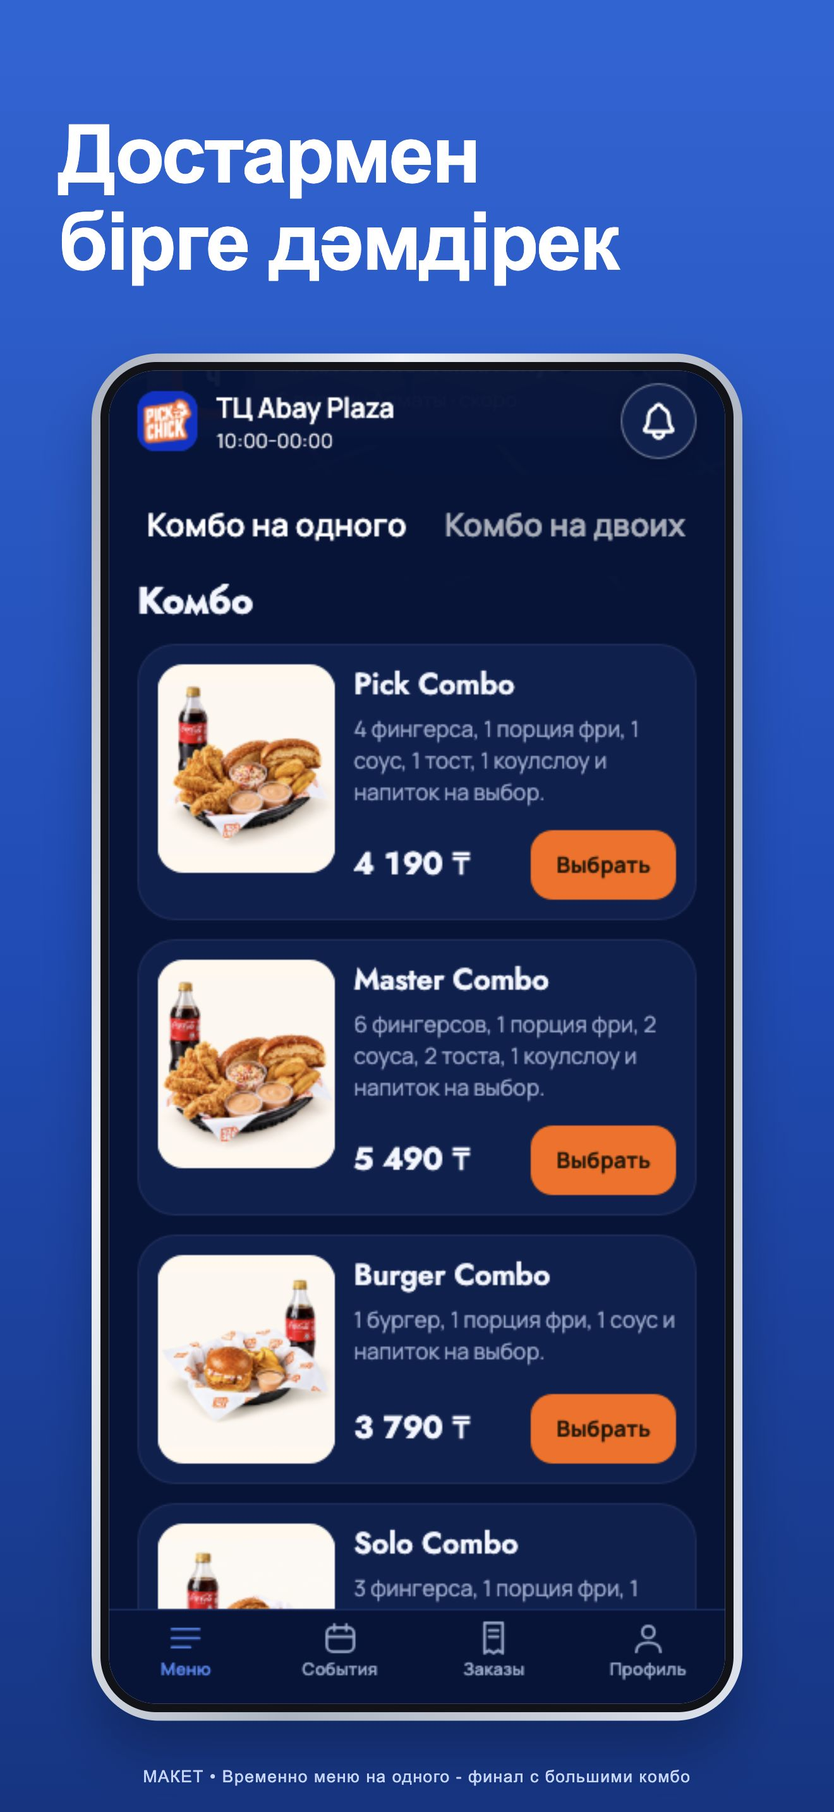
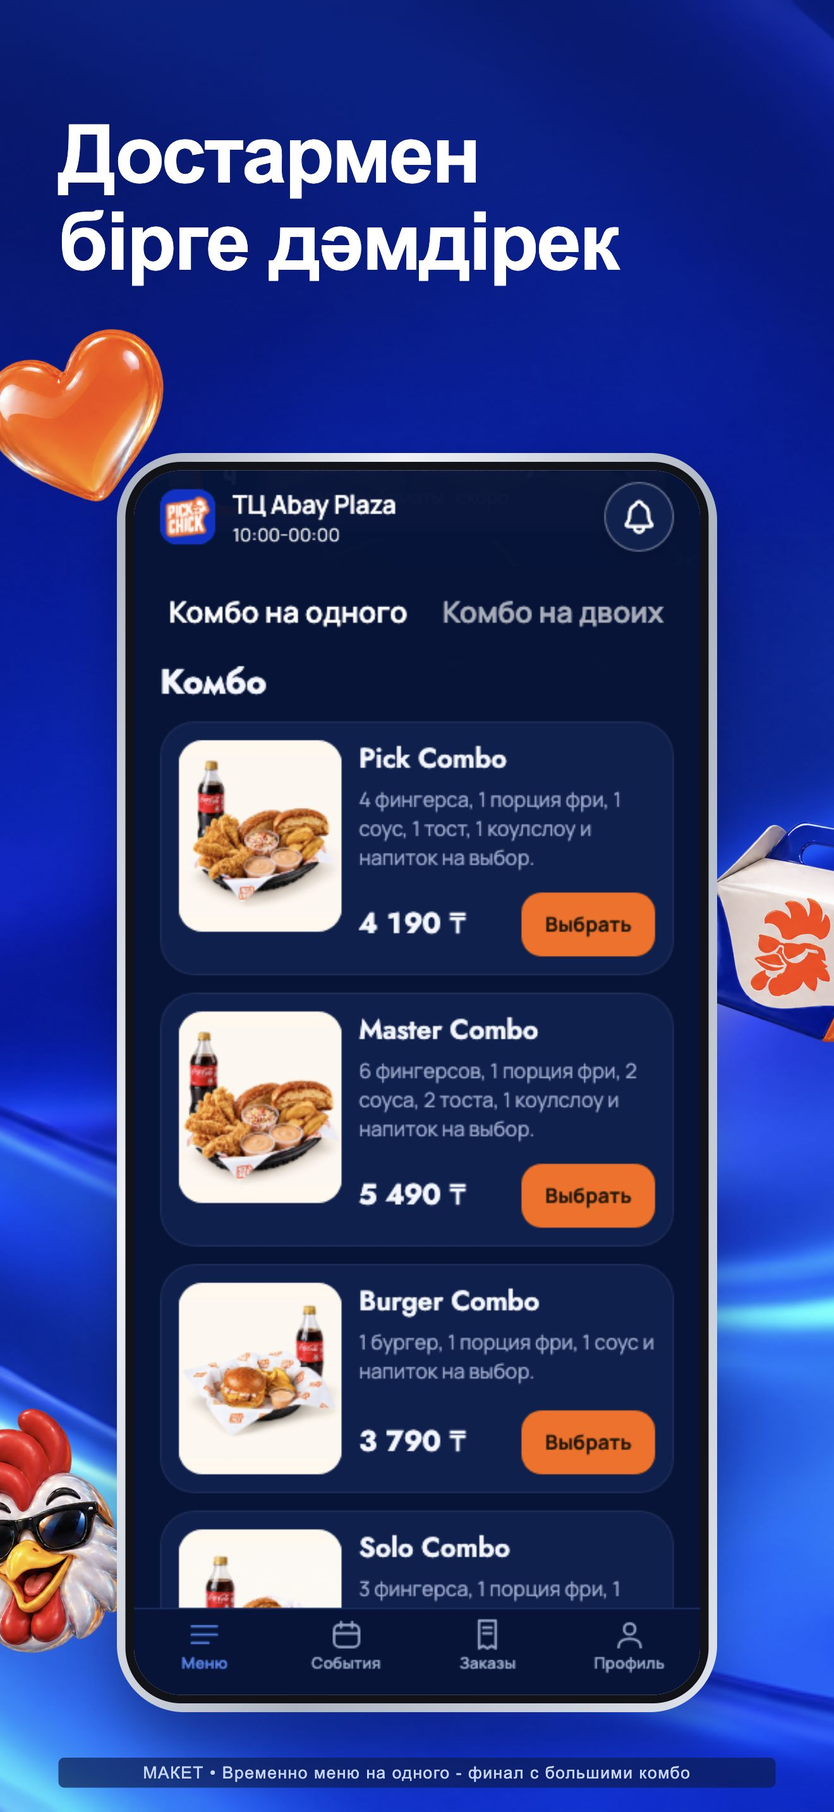
docs: add iridescent store artwork and Pick Chick motifs

diff --git a/docs/operations/appstore-refresh-1117/screenshots-preview-1118/index.html b/docs/operations/appstore-refresh-1117/screenshots-preview-1118/index.html
@@ -73,12 +73,7 @@
       .cover-preview .cover-art {
         width: 100%;
         aspect-ratio: 3840 / 1646;
-        background: linear-gradient(
-          180deg,
-          var(--gradient-top) 0%,
-          var(--gradient-middle) 52%,
-          var(--gradient-bottom) 100%
-        );
+        background: #0638ba url('art/iridescent-blue.png') center / cover no-repeat;
       }
       .cover-preview figcaption {
         padding-top: 10px;
@@ -100,17 +95,22 @@
         position: relative;
         container-type: inline-size;
         aspect-ratio: 1320/2868;
-        background: linear-gradient(
-          180deg,
-          var(--gradient-top) 0%,
-          var(--gradient-middle) 52%,
-          var(--gradient-bottom) 100%
-        );
+        isolation: isolate;
+        background-color: #0434b5;
+        background-image:
+          linear-gradient(180deg, #0321769c 0%, #03217600 28%), url('art/iridescent-blue.png');
+        background-size:
+          cover,
+          auto 100%;
+        background-position:
+          center,
+          var(--bg-x, 65%) center;
         overflow: hidden;
         color: white;
       }
       h2 {
         position: absolute;
+        z-index: 3;
         inset: 6.1% 7% auto;
         margin: 0;
         font:
@@ -122,9 +122,10 @@
       }
       .phone {
         position: absolute;
-        width: 78%;
-        left: 11%;
-        top: 19.5%;
+        z-index: 2;
+        width: 72%;
+        left: 14%;
+        top: 25%;
         padding: 1.05cqw;
         border-radius: 8.1cqw;
         background: linear-gradient(110deg, #a8b0be, #eef1f6 27%, #aab4c3 60%, #dde3ed);
@@ -142,11 +143,55 @@
         height: auto;
         image-rendering: auto;
       }
-      .order .phone {
-        top: 24%;
+      .motif {
+        position: absolute;
+        z-index: 1;
+        aspect-ratio: 1;
+        background-image: url('art/brand-figures.png');
+        background-size: 300% 200%;
+        background-repeat: no-repeat;
+        pointer-events: none;
+      }
+      .motif.alex {
+        background-position: 0 0;
+      }
+      .motif.flame {
+        background-position: 50% 0;
+      }
+      .motif.box {
+        background-position: 100% 0;
+      }
+      .motif.cup {
+        background-position: 0 100%;
+      }
+      .motif.heart {
+        background-position: 50% 100%;
+      }
+      .motif.blocks {
+        background-position: 100% 100%;
+      }
+      body.cover-only main {
+        padding: 0;
+        max-width: none;
+      }
+      body.cover-only header,
+      body.cover-only .grid,
+      body.cover-only footer,
+      body.cover-only figcaption {
+        display: none;
+      }
+      body.cover-only .cover-preview {
+        margin: 0;
+      }
+      body.cover-only .cover-art {
+        width: 100vw;
       }
       .draft {
         position: absolute;
+        z-index: 3;
+        background: #061c54b3;
+        border-radius: 0.7cqw;
+        padding: 0.45cqw;
         bottom: 1.35%;
         left: 7%;
         right: 7%;
@@ -262,11 +307,11 @@
         <div
           class="cover-art"
           role="img"
-          aria-label="Обложка Pick Chick с мягким синим градиентом"
+          aria-label="Обложка Pick Chick с яркими синими переливами"
         ></div>
         <figcaption>
-          Новая обложка - тот же мягкий градиент, что и на скриншотах. Предпросмотр, в App Store ещё
-          не загружена.
+          Новая обложка - насыщенные синие переливы, как на скриншотах. Предпросмотр, в App Store
+          ещё не загружена.
         </figcaption>
       </figure>
       <section class="grid" aria-label="Макеты скриншотов"></section>
@@ -282,7 +327,10 @@
         let items = data.screens;
         const page = params.get('page');
         const single = params.get('screen');
-        if (single) {
+        if (params.has('cover')) {
+          document.body.classList.add('cover-only');
+          items = [];
+        } else if (single) {
           document.body.classList.add('single');
           items = items.filter((s) => s.id === single);
         } else if (page) {
@@ -296,6 +344,19 @@
           const canvas = document.createElement('div');
           canvas.className = 'canvas' + (s.id === '05-order' ? ' order' : '');
           canvas.dataset.id = s.id;
+          canvas.style.setProperty('--bg-x', s.background_position);
+          for (const item of s.motifs) {
+            const motif = document.createElement('div');
+            motif.className = 'motif ' + item.name;
+            motif.setAttribute('aria-hidden', 'true');
+            Object.assign(motif.style, {
+              left: item.left + '%',
+              top: item.top + '%',
+              width: item.width + '%',
+              transform: 'rotate(' + item.rotation + 'deg)',
+            });
+            canvas.append(motif);
+          }
           const h = document.createElement('h2');
           h.lang = 'kk';
           h.textContent = s.headline;

diff --git a/docs/operations/appstore-refresh-1117/screenshots-preview-1118/art/prompts.md b/docs/operations/appstore-refresh-1117/screenshots-preview-1118/art/prompts.md
@@ -1,0 +1,21 @@
+# Промпты оформления - 18.11.2026
+
+Инструмент: встроенный image_gen. Результат используется как декоративный фон, без генерации интерфейса приложения. Приём расположения фигурок изучен по карточке Drinkit; её персонажи и изображения не использованы.
+
+## Фигурки - исходная генерация
+
+Входные референсы: apps/mobile/assets/profile/alex-avatar.png и design/prototype/assets/brand-logo.png. Параметр transparent_background: true.
+
+Create a premium 3D decorative sticker asset sheet for Pick Chick food-ordering app screenshot backgrounds. Use the provided rooster mascot and logo as identity references: the cheerful rooster Alex, red comb, sunglasses, yellow beak; do not copy the square blue/orange backgrounds. The output is ONE transparent PNG, landscape 3:2 aspect ratio, clean 3 columns by 2 rows grid of SIX SEPARATE isolated objects. Each object fully contained within its own equally sized cell, with at least 15 percent empty margin all round, no object touching another. No grid lines, no labels, no text, no letters, no watermarks, no backdrop, true alpha transparency. Top row left: a simplified sculptural chrome-and-pearl rooster-head charm of Alex with recognizable comb, beak and cool dark sunglasses, blue reflections and tiny orange accents. Top row middle: a chunky three-dimensional orange and amber translucent flame charm, rounded molten glass with glossy highlights. Top row right: a cobalt blue and white folded takeaway chicken-combo box with an orange rooster-head emblem, no wording, glossy premium vinyl miniature. Bottom row left: a glossy cobalt takeaway drink cup with white lid and orange straw, small orange rooster emblem, no lettering. Bottom row middle: a shiny orange heart-shaped charm with subtle pearly edges, rounded and tactile, no sparkles around it. Bottom row right: a small stack of three blue, white and orange game cubes reminiscent of stacking combo boxes, glossy vinyl, no letters. All six have a unified art-director quality, physically plausible reflective materials, soft studio reflections, slight 3/4 rotations, warm orange against icy silver and electric royal blue. Objects should read clearly at small sizes as decorative background figures. Crisp detailed silhouette, not photo-real food, not humanoid body, not scary. No cast shadows outside silhouettes; preserve transparent canvas. This is a brand motif sheet, not an app screen and not an advertisement.
+
+## Фигурки - исправление прозрачности
+
+Вход: исходный сгенерированный лист. Параметр transparent_background: true. Финальный файл: brand-figures.png.
+
+Precise background removal edit. Preserve all six existing 3D Pick Chick objects, their geometry, colors, positions, size, grid and exact 1536x1024 canvas. REMOVE the entire light grey/cream background, all environmental gradients, background fog, glows and shadows between and around the objects. Empty canvas must be genuinely fully transparent, alpha=0, not merely pale or translucent. Objects themselves must remain solid and crisp, with semi-transparent alpha ONLY at the anti-aliased silhouette boundary. Do not make the chrome or glass objects globally transparent. Do not change, redraw, move or add any objects, logos, words or details. Deliver the same six objects cleanly cut out on fully transparent empty space, suitable for overlaying on a dark blue app-store design with no visible rectangular boxes.
+
+## Переливающийся фон
+
+Без входного изображения. Параметр transparent_background: false. Файл: iridescent-blue.png.
+
+Create a premium abstract iridescent background for Pick Chick's App Store screenshot series and wide app-page cover. Very wide panoramic composition, aspect ratio 21:9. Full-bleed smooth glossy cobalt-blue liquid silk / polished satin surface with broad flowing curved folds. Strong visible pearlescent color shifts and sweeping reflections: rich royal cobalt #0047BB dominant, electric azure, luminous cyan and ice-blue bands, deep sapphire shadows, small violet-blue transitions. The light should feel as if it rolls across the surface, like iridescent enamel or smooth reflective silk. Dramatic and noticeably shimmering, NOT a near-flat linear gradient. Large luxurious flowing shapes, smooth tonal transitions, no tiny noise. Keep top-left and upper-middle areas rich mid-to-dark blue so white headings will be readable; brightest icy reflections mainly near the right edge and lower left. Balanced, polished, modern food app brand artwork. This is ONLY the abstract backdrop. Absolutely no text, logos, food, objects, characters, stars, glitter particles, checkerboard, borders, phone mockups or interface. No orange, no pink, no green. Flat standalone background asset, not a photograph of a framed poster. High detail and smooth clean rendering.

diff --git a/docs/operations/appstore-refresh-1117/screenshots-plan.md b/docs/operations/appstore-refresh-1117/screenshots-plan.md
@@ -2,7 +2,7 @@
 
 Статус на 18.11: [макеты оформления](screenshots-preview-1118/README.md) с утверждённым вторым набором подписей готовы для просмотра владельцем. Архивные экраны подписаны как временные. Файлов для загрузки в Apple пока нет.
 
-Спокойный синий фон #1B66D9 с плавным переходом через #074DBB к #073585, крупный настоящий экран в нейтральной серебристой рамке. На каждом кадре один короткий заголовок. Фотографии еды остаются внутри приложения; дополнительных предметов за пределами телефона нет.
+Актуальное направление после правки владельца: насыщенный переливающийся синий фон с бирюзовыми и фиолетовыми отражениями. Вокруг телефона - разные объёмные мотивы Pick Chick (Алекс, пламя, коробка, стакан, сердце, стопка коробок), по три на кадр. Это заменяет прежнее ограничение на фигурки за пределами телефона. Интерфейс и исходные фотографии еды не перерисованы. Телефон 72% ширины, верхняя граница на 25% высоты; заголовок остаётся крупным и читаемым.
 
 | Порядок | Казахская подпись        | Смысл по-русски           | Финальный экран             |
 | ------- | ------------------------ | ------------------------- | --------------------------- |
@@ -27,7 +27,7 @@
 ## Компоновка
 
 - Первичный размер 1320 x 2868. Дополнительный 1206 x 2622 готовить только для соответствующей группы устройств в актуальном менеджере материалов.
-- Заголовок занимает верхние примерно 18% высоты. Телефон ниже, ширина около 80-86% полотна; точный размер определяется пропорциями исходного снимка без растяжения.
+- Заголовок занимает верхние примерно 18% высоты. Телефон ниже, ширина 72% полотна; точный размер определяется пропорциями исходного снимка без растяжения.
 - Проверить казахские Ә, Ғ, Қ, Ң, Ө, Ұ, Ү, Һ, І в используемом шрифте. Не допускать случайного смешения гарнитур из-за отсутствующих глифов.
 - Применять фон и рамку только снаружи снимка. Фотографии еды остаются исходными внутри приложения.
 - Просмотреть шесть кадров рядом и первые три в масштабе карточки App Store. Проверить читаемость заголовка и отсутствие обрезанных элементов.

diff --git a/docs/operations/appstore-refresh-1117/screenshots-preview-1118/README.md b/docs/operations/appstore-refresh-1117/screenshots-preview-1118/README.md
@@ -23,7 +23,11 @@ python3 -m http.server 8876 --bind 127.0.0.1 --directory /private/tmp/pickchick-
 
 ## Оформление и ограничения
 
-Фон - фирменный синий градиент `#1B66D9` -> `#074DBB` (52%) -> `#073585`. Рамка нейтральная серебристая, без заявления о соответствии конкретному устройству. Использованы только исходные изображения интерфейса и еды, без перерисовки. Казахские фразы целиком набраны Arial Bold: комплектные Jost и Manrope не содержат всех необходимых казахских глифов; наличие этих глифов в системном Arial Bold проверено.
+Актуальный фон - синий шелковистый перелив с бирюзовыми и фиолетовыми отражениями. По просьбе владельца добавлены объёмные фигурки: Алекс в очках, пламя, коробка, стакан, сердце, стопка игровых коробок. На каждом кадре три разных мотива, расположенных за экраном. Принцип размещения изучен по Drinkit, персонажи и мотивы созданы для Pick Chick. [Происхождение и хеши](art/provenance.json), [промпты](art/prompts.md).
+
+Рамка нейтральная серебристая, без заявления о соответствии конкретному устройству. Внутри - только неизменённые исходные изображения интерфейса и еды. Казахские фразы целиком набраны Arial Bold: комплектные Jost и Manrope не содержат всех необходимых казахских глифов.
+
+[Новая переливающаяся обложка](../assets/header-iridescent-3840x1646.jpg) имеет размер 3840 x 1646. Для отдельного просмотра в локальной галерее добавить `?cover=1`. В App Store она не загружена.
 
 Исходники в `sources/` сохранены без изменений. Это архивные web-снимки и демонстрационные экраны, не нативные скриншоты build40. Цены не проверены. Пути происхождения и SHA-256 записаны в manifest.
 

diff --git a/docs/operations/appstore-refresh-1117/README.md b/docs/operations/appstore-refresh-1117/README.md
@@ -28,6 +28,12 @@
 
 По просьбе владельца в шести макетах и новой [обложке](assets/header-gradient-3840x1646.png) усилен мягкий вертикальный градиент: #1B66D9, #074DBB на 52%, #073585. Подписи и исходные экраны прежние. Обложка 3840 x 1646, RGB 8-bit sRGB без прозрачности. Новый вариант ещё не загружен в Apple; ранее сохранённая обложка остаётся без изменений. Контраст белого заголовка на самом светлом участке 5.32:1.
 
+## Переливы и фигурки 18.11
+
+Владелец отклонил слабый градиент и попросил выраженные переливы и разные фигурки Pick Chick по принципу Drinkit. Подготовлен новый насыщенный синий фон с бирюзовыми и фиолетовыми отражениями и шесть объёмных мотивов: Алекс, пламя, коробка, стакан, сердце и стопка коробок. По три мотива на кадр, разное расположение; интерфейс и подписи не изменены. Телефон уменьшен до 72% ширины, чтобы дать место фоновым фигурам. [Новая обложка](assets/header-iridescent-3840x1646.jpg) использует тот же фон.
+
+Фон и мотивы созданы встроенным генератором изображений. [Происхождение](screenshots-preview-1118/art/provenance.json) и [промпты](screenshots-preview-1118/art/prompts.md) сохранены. Проверены все размеры, исходные хеши, точные подписи и обе обзорные полосы. Это всё ещё предпросмотр; Apple и текущая обложка в нём не менялись.
+
 ## Осталось
 
 Владелец отклонил прежние подписи и первый короткий вариант. Попросил самостоятельно предложить варианты по исследованию конкурентов. Владелец выбрал и утвердил второй, выразительный набор из captions-1118.md.
